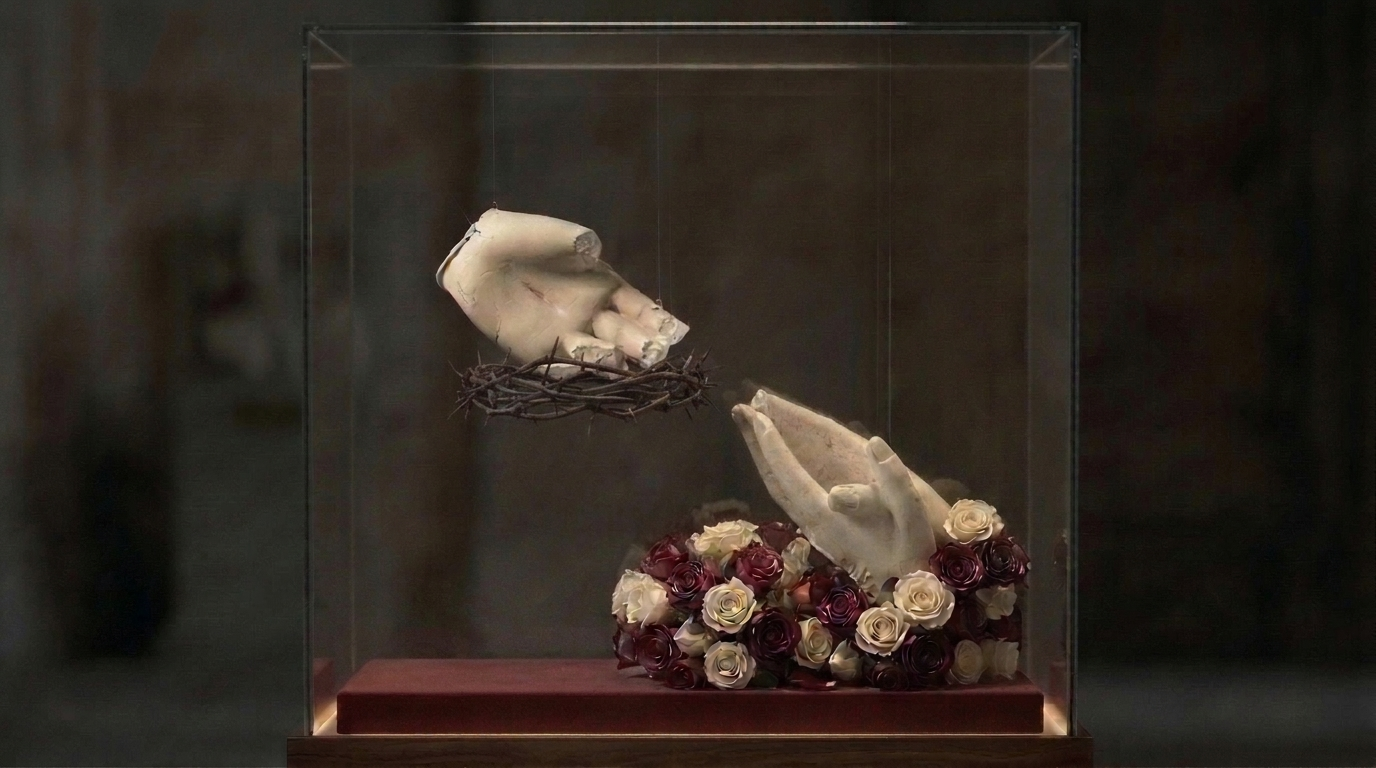
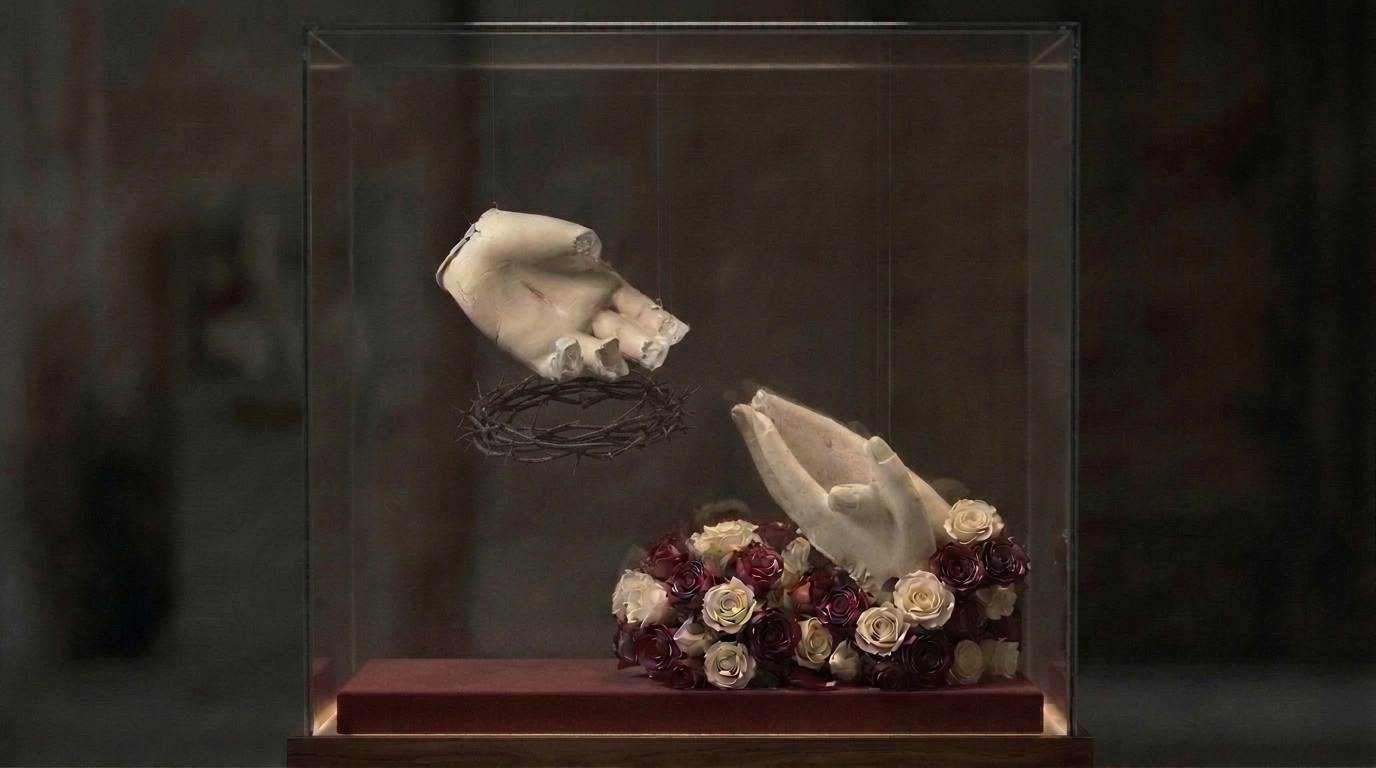
Finalize confirmed close-up and 1.2m walnut stand renders with midpoint tilted oval Crown of Thorns

Changed region(s): [[0.3438, 0.4375, 0.5312, 0.5938]]

diff --git a/index.html b/index.html
@@ -344,7 +344,7 @@
           </div>
         </div>
         <div id="statusBadge" class="hud-bottom">
-          추천배치 ① 세운 가시관 관통 · 왼손 파편유물(-35°) · 합장손(50°)
+          최종확정안 · 왼손 바로 밑 살짝 기울어진 원형 가시 면류관(16°) · 화관 품 합장손(50°)
         </div>
       </div>
 
@@ -364,16 +364,16 @@
           <div id="panePreset" class="pane-sec active">
             <div class="preset-grid">
               <button data-preset="portal" class="preset-card recommended">
-                <span>① 세운 가시관 관통형 (추천 메인)</span>
-                <span class="sub">수직 가시관 통과 왼손 + 장미화관 합장손</span>
+                <span>① 최종 확정안 (중간높이·원형 기울기 면류관)</span>
+                <span class="sub">왼손 바로 밑 살짝 기울어진 가시 면류관 + 화관 품 합장손</span>
               </button>
               <button data-preset="palmDownSplit" class="preset-card">
-                <span>② 손바닥 정하향 + 좌우 분리안</span>
-                <span class="sub">손바닥 수평 하향 세례 + 바닥 가시관·화관</span>
+                <span>② 좌하단 바닥 가시관 · 우하단 화관 분리안</span>
+                <span class="sub">벨벳 단 위 가시 면류관·장미 화관 수평 배치</span>
               </button>
               <button data-preset="nested" class="preset-card">
-                <span>③ 우하단 가시관·화관 중첩안</span>
-                <span class="sub">가시관·장미화관이 합장손을 함께 감쌈</span>
+                <span>③ 세운 가시관 관통 비교안</span>
+                <span class="sub">수직 가시 면류관 통과 왼손 초기 비교 구도</span>
               </button>
             </div>
             <div class="btn-row">
@@ -444,32 +444,32 @@
                 <input id="chkThorn" type="checkbox" checked style="accent-color:var(--accent);" />가시 면류관 표시
               </label>
               <label style="display:flex;align-items:center;gap:6px;cursor:pointer;color:var(--muted);">
-                <input id="chkStemRose" type="checkbox" checked style="accent-color:var(--accent);" />상단 줄기장미 포함
+                <input id="chkStemRose" type="checkbox" style="accent-color:var(--accent);" />상단 줄기장미 포함
               </label>
             </div>
             <div class="slider-2col">
               <div class="slider-item">
-                <div class="slider-head"><span>높이(바닥기준)</span><span id="valThornH" class="slider-val">+18.5 cm</span></div>
-                <input id="slThornH" type="range" min="0" max="32" step="0.5" value="18.5" />
+                <div class="slider-head"><span>높이(바닥기준)</span><span id="valThornH" class="slider-val">+15.5 cm</span></div>
+                <input id="slThornH" type="range" min="0" max="32" step="0.5" value="15.5" />
               </div>
               <div class="slider-item">
-                <div class="slider-head"><span>세움 각도</span><span id="valThornTilt" class="slider-val">82°(수직)</span></div>
-                <input id="slThornTilt" type="range" min="-90" max="90" value="82" />
+                <div class="slider-head"><span>세움 각도</span><span id="valThornTilt" class="slider-val">16°</span></div>
+                <input id="slThornTilt" type="range" min="-90" max="90" value="16" />
               </div>
             </div>
             <div class="slider-2col">
               <div class="slider-item">
-                <div class="slider-head"><span>좌우 위치(X)</span><span id="valThornX" class="slider-val">-4.0 cm</span></div>
-                <input id="slThornX" type="range" min="-16" max="16" step="0.5" value="-4.0" />
+                <div class="slider-head"><span>좌우 위치(X)</span><span id="valThornX" class="slider-val">-7.5 cm</span></div>
+                <input id="slThornX" type="range" min="-16" max="16" step="0.5" value="-7.5" />
               </div>
               <div class="slider-item">
-                <div class="slider-head"><span>고리 방향(Yaw)</span><span id="valThornYaw" class="slider-val">62°</span></div>
-                <input id="slThornYaw" type="range" min="-90" max="90" value="62" />
+                <div class="slider-head"><span>고리 방향(Yaw)</span><span id="valThornYaw" class="slider-val">90°</span></div>
+                <input id="slThornYaw" type="range" min="-90" max="90" value="90" />
               </div>
             </div>
             <div class="slider-item">
-              <div class="slider-head"><span>가시 면류관 크기 배율</span><span id="valThornScale" class="slider-val">112%</span></div>
-              <input id="slThornScale" type="range" min="65" max="145" value="112" />
+              <div class="slider-head"><span>가시 면류관 크기 배율</span><span id="valThornScale" class="slider-val">88%</span></div>
+              <input id="slThornScale" type="range" min="65" max="145" value="88" />
             </div>
           </div>
 
@@ -527,38 +527,24 @@
     <section id="secRenders" class="renders-view">
       <div class="gallery-grid">
         <div class="img-card">
-          <img src="./studio-master-a-closeup.jpg" alt="마스터 시안 A 근접 뷰" />
+          <img src="./studio-master-a-closeup.jpg" alt="최종 확정 확대한 이미지" />
           <div class="img-cap">
-            <h3>시안 A (근접 뷰) — 파손 관절·성흔 노출 세례 손(↘) + 파손 합장 손 유물(↖)</h3>
-            <p>외측 파손 단면과 성흔을 살린 예수님의 왼손과 우측 하단 장미 위 파손 합장 손 유물의 대각선 조우</p>
+            <h3>확대한 이미지 (최종 확정 클로즈업 컷)</h3>
+            <p>알트 A·C 사이 중간 높이에서 원형 내경이 살짝 보이도록 기울어진 가시 면류관과 장미 화관 품에 폭 안긴 성모 합장 손의 조우</p>
           </div>
         </div>
         <div class="img-card">
-          <img src="./studio-master-b-closeup.jpg" alt="마스터 시안 B 근접 뷰" />
+          <img src="./studio-master-a-full.jpg" alt="최종 확정 스탠드 이미지 한 컷" />
           <div class="img-cap">
-            <h3>시안 B (근접 뷰) — 측면 손 실루엣 손바닥 하향(↘) + 파손 합장 손 유물(↖)</h3>
-            <p>손바닥을 바닥으로 돌려 측면 조각 실루엣이 합장 손 위를 포근히 덮어주며 축복하는 구도</p>
-          </div>
-        </div>
-        <div class="img-card">
-          <img src="./studio-master-a-full.jpg" alt="1.2m 원목 스탠드 전신 뷰 A" />
-          <div class="img-cap">
-            <h3>전신 외관 A — 1.2m 다크 월넛 원목 함 스탠드 (손 높이 1.1m 비례)</h3>
-            <p>하부 원목 함(75cm) + 상부 저철분 무반사 유리함(45cm) + 절반 이하로 낮춘 붉은 벨벳 단(7.5cm) 및 상향 조명</p>
-          </div>
-        </div>
-        <div class="img-card">
-          <img src="./studio-master-b-full.jpg" alt="1.2m 원목 스탠드 전신 뷰 B" />
-          <div class="img-cap">
-            <h3>전신 외관 B — 성당 설치 시 1.1m 눈높이 관람 비례</h3>
-            <p>성인이 서서 살짝 내려다볼 때 두 손의 기도와 축복 간극이 정면 시선에 들어오는 인체공학 치수</p>
+            <h3>스탠드 이미지 한 컷 (최종 확정 1.2m 전신 설치 컷)</h3>
+            <p>세로결 다크 월넛 원목 캐비닛 좌대(75cm) + 전례용 홍색 벨벳 하부 둘레 황금빛 상향 간접조명 + 무반사 유리함(45cm) 일체형 설치 뷰</p>
           </div>
         </div>
       </div>
       <div class="plaque-box">
         <h2>전시 캡션 명패 문안 — 〈부서진 두 손, 멈추지 않은 축복 (Broken Hands, Unbroken Blessing)〉</h2>
-        <p><strong>규격 및 재료:</strong> 2025년 전투기 오폭 사고 현장에서 수습된 예수 그리스도상·성모 마리아상의 실제 손 잔해 2점(무복원 원형 보존), 가시 면류관과 장미 화관, 전례용 홍색 벨벳, 다크 월넛 원목 좌대와 무반사 조명 유리함 (50 × 42 × 120 cm)</p>
-        <p>훈련 중이던 전투기의 오폭 충격으로 성상의 몸체가 부서진 현장에서 기적처럼 수습된 두 점의 성물 파편입니다. 인위적 복원을 거치지 않은 거친 파단면 그대로, 수난의 가시 면류관을 통과해 내려오는 예수 그리스도의 상처 입은 왼손과 장미 화관 위에서 하늘을 향해 겸손히 모아진 성모 마리아의 합장한 손이 마주합니다. 포탄이 남긴 상흔조차 서로를 향한 기도와 축복의 손길로 바꾸어 내는 평화의 증언입니다.</p>
+        <p><strong>규격 및 재료:</strong> 2025년 전투기 오폭 사고 현장에서 수습된 예수 그리스도상·성모 마리아상의 실제 손 잔해 2점(무복원 원형 보존), 가시 면류관과 장미 화관, 전례용 홍색 벨벳, 다크 월넛 원목 좌대와 하부 간접조명 무반사 유리함 (50 × 42 × 120 cm)</p>
+        <p>훈련 중이던 전투기의 오폭 충격으로 성상의 몸체가 부서진 현장에서 기적처럼 수습된 두 점의 성물 파편입니다. 인위적 복원을 거치지 않은 거친 파단면 그대로, 수난의 가시 면류관 위에서 아래로 축복을 건네는 예수 그리스도의 상처 입은 왼손과 장미 화관 품에 기대어 하늘을 향해 겸손히 모아진 성모 마리아의 합장한 손이 마주합니다. 포탄이 할퀴고 간 상흔조차 서로를 향한 기도와 축복의 손길로 바꾸어 내는 평화의 증언입니다.</p>
       </div>
     </section>
   </div>
@@ -1059,14 +1045,14 @@
   const meshGlass = buildGlassBoxMesh();
   const meshWire = buildWireMesh();
 
-  // Default State = Exact d0567466.jpg Composition!
+  // Default State = Final Confirmed Composition (Midpoint Crown under Hand + Subtle 16° Oval Tilt)!
   const state = {
     yaw: 0.04, pitch: 0.06, dist: 0.88, target: [0.0, 1.00, 0.0],
     wristRoll: -50, leftPitch: -35, leftHeight: 1.05, leftX: -0.075, leftZ: 0.01,
-    prayAngle: 50, prayLift: 0.005, prayX: 0.095, prayYaw: 12,
-    showThorn: true, showStemRose: true, thornH: 0.185, thornTilt: 82, thornX: -0.040, thornYaw: 62, thornScale: 1.12,
-    showRose: true, roseH: 0.010, roseTilt: 10, roseX: 0.095, roseScale: 1.08,
-    redH: 0.075, uplight: 1.30, showGlass: true
+    prayAngle: 50, prayLift: 0.005, prayX: 0.085, prayYaw: 12,
+    showThorn: true, showStemRose: false, thornH: 0.155, thornTilt: 16, thornX: -0.075, thornYaw: 90, thornScale: 0.88,
+    showRose: true, roseH: 0.015, roseTilt: 8, roseX: 0.085, roseScale: 0.96,
+    redH: 0.075, uplight: 1.35, showGlass: true
   };
 
   // Mouse & Galaxy S23 Touch Orbit / Pinch Zoom
@@ -1159,27 +1145,27 @@
   const layoutPresets = {
     portal: {
       slWristRoll: -50, slLeftPitch: -35, slLeftHeight: 105, slLeftX: -7.5, slLeftZ: 1.0,
+      slPrayAngle: 50, slPrayLift: 0.5, slPrayX: 8.5, slPrayYaw: 12,
+      slThornH: 15.5, slThornTilt: 16, slThornX: -7.5, slThornYaw: 90, slThornScale: 88,
+      slRoseH: 1.5, slRoseTilt: 8, slRoseX: 8.5, slRoseScale: 96, slRedH: 7.5
+    },
+    palmDownSplit: {
+      slWristRoll: -50, slLeftPitch: -35, slLeftHeight: 105, slLeftX: -7.5, slLeftZ: 1.0,
+      slPrayAngle: 50, slPrayLift: 0.5, slPrayX: 8.5, slPrayYaw: 12,
+      slThornH: 0.5, slThornTilt: 0, slThornX: -9.0, slThornYaw: 0, slThornScale: 92,
+      slRoseH: 1.5, slRoseTilt: 8, slRoseX: 8.5, slRoseScale: 96, slRedH: 7.5
+    },
+    nested: {
+      slWristRoll: -50, slLeftPitch: -35, slLeftHeight: 105, slLeftX: -7.5, slLeftZ: 1.0,
       slPrayAngle: 50, slPrayLift: 0.5, slPrayX: 9.5, slPrayYaw: 12,
       slThornH: 18.5, slThornTilt: 82, slThornX: -4.0, slThornYaw: 62, slThornScale: 112,
       slRoseH: 1.0, slRoseTilt: 10, slRoseX: 9.5, slRoseScale: 108, slRedH: 7.5
-    },
-    palmDownSplit: {
-      slWristRoll: -8, slLeftPitch: -26, slLeftHeight: 112, slLeftX: -8.0, slLeftZ: 0.5,
-      slPrayAngle: 52, slPrayLift: 0.5, slPrayX: 9.5, slPrayYaw: 12,
-      slThornH: 0.5, slThornTilt: 0, slThornX: -9.5, slThornYaw: 0, slThornScale: 100,
-      slRoseH: 0.5, slRoseTilt: 10, slRoseX: 9.5, slRoseScale: 105, slRedH: 7.5
-    },
-    nested: {
-      slWristRoll: -32, slLeftPitch: -32, slLeftHeight: 112, slLeftX: -7.5, slLeftZ: 0.5,
-      slPrayAngle: 54, slPrayLift: 1.5, slPrayX: 8.5, slPrayYaw: 12,
-      slThornH: 1.0, slThornTilt: -18, slThornX: 7.5, slThornYaw: 15, slThornScale: 112,
-      slRoseH: 4.5, slRoseTilt: 22, slRoseX: 8.5, slRoseScale: 94, slRedH: 7.5
     }
   };
   document.querySelectorAll('[data-preset]').forEach(btn => {
     btn.addEventListener('click', () => {
       const k = btn.dataset.preset;
-      applyPreset(layoutPresets[k], k === 'portal');
+      applyPreset(layoutPresets[k], k === 'nested');
     });
   });
 
@@ -1194,7 +1180,7 @@
     btn.addEventListener('click', () => { const p = camPresets[btn.dataset.cam]; state.yaw=p.yaw; state.pitch=p.pitch; state.dist=p.dist; state.target=[...p.target]; });
   });
   document.getElementById('btnReset').addEventListener('click', () => {
-    applyPreset(layoutPresets.portal, true);
+    applyPreset(layoutPresets.portal, false);
     Object.assign(state, { ...camPresets.closeup, target: [...camPresets.closeup.target] });
   });
 
